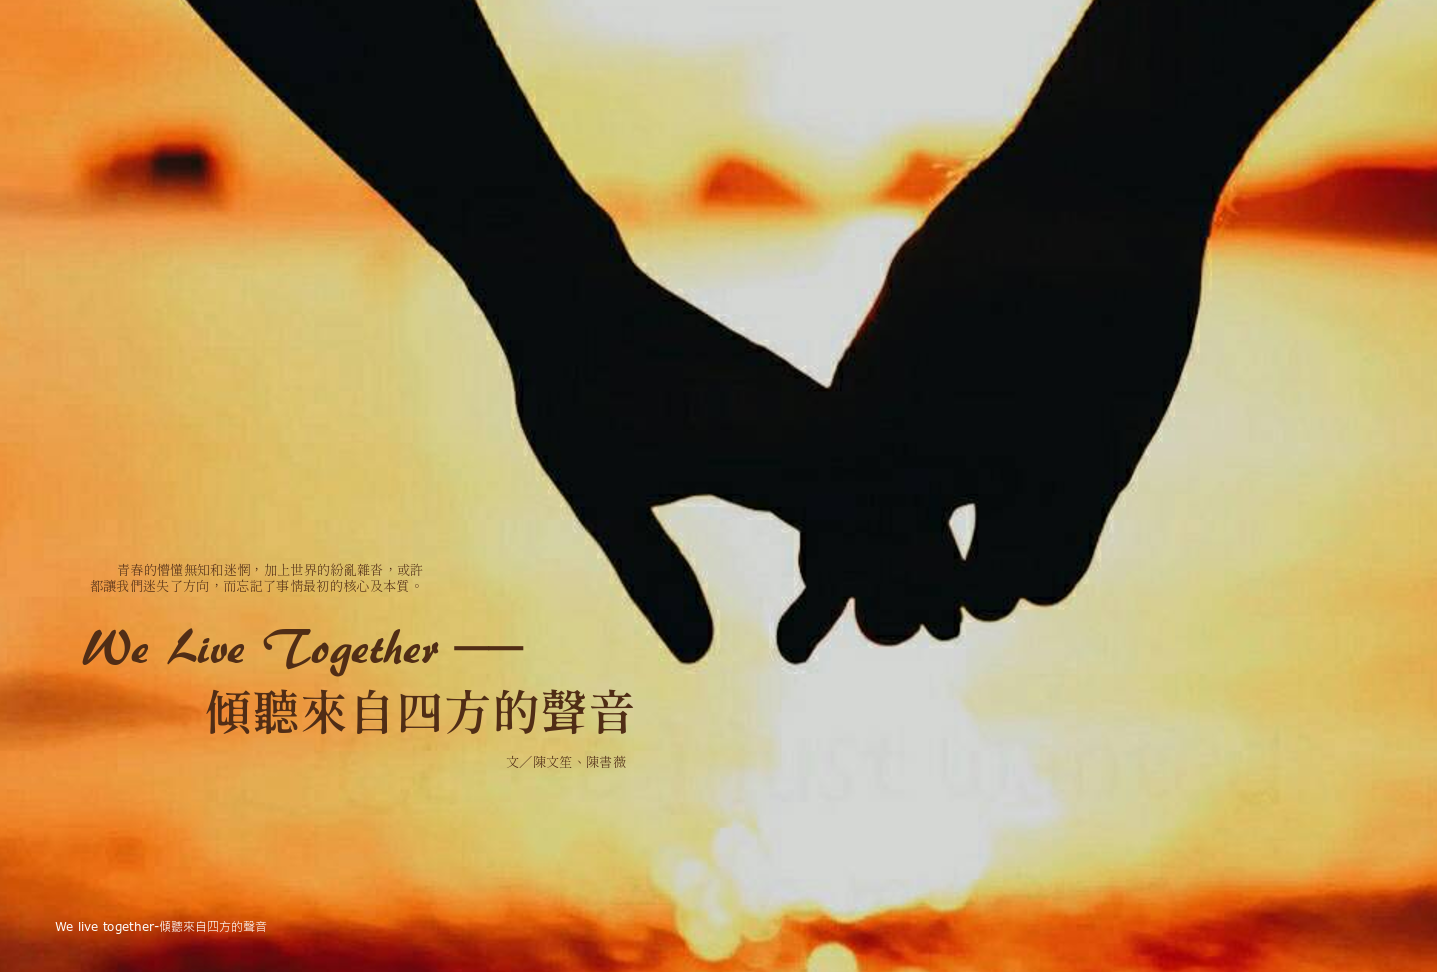
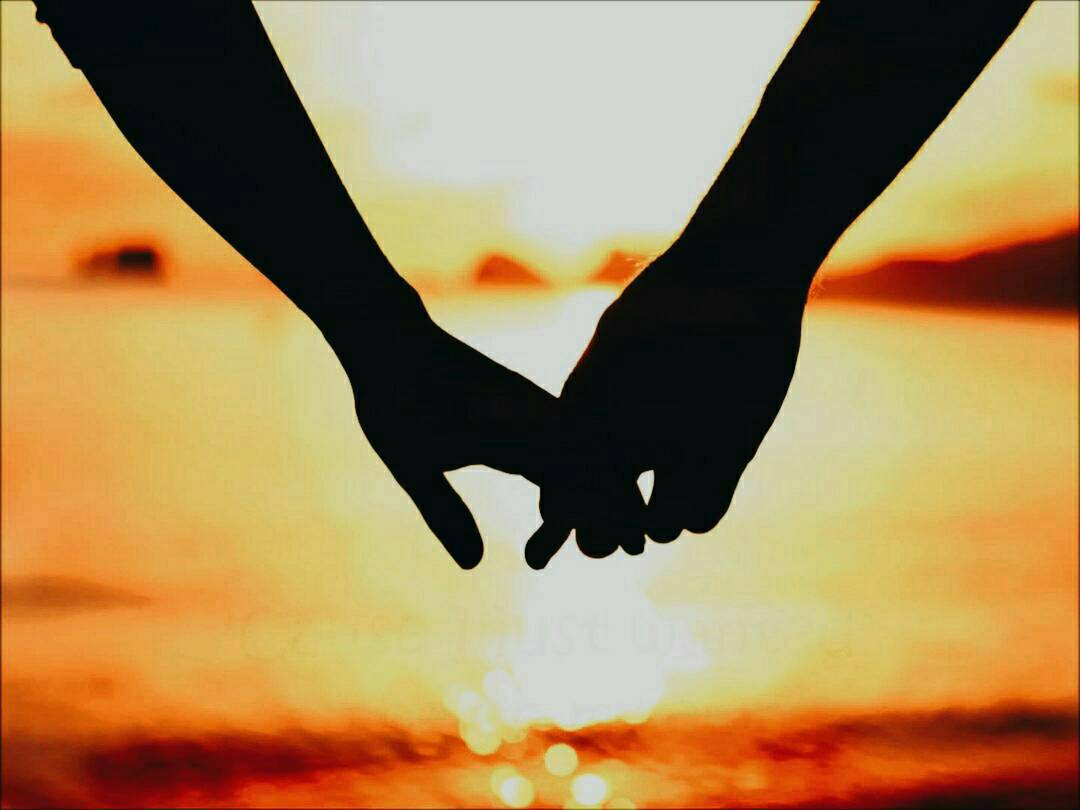
change images

diff --git a/ch10.html b/ch10.html
@@ -61,7 +61,7 @@
 									<p>學長姐：「學弟妹沒經驗，必須虛心學習，也因為你們對社團是從零開始，所以不能無所拘束，一些尊重、規範也不可少。」
 								    </p>
 								</header>
-								<div class="image main"><img src="images/pic01.jpg" alt="" /></div>
+								<div class="image main"><img src="images/ch10.JPG" alt="" /></div>
 								<div>	
  									<p>&nbsp;&nbsp;&nbsp;&nbsp;&nbsp;&nbsp;&nbsp;&nbsp;假設你是一位高一學生，升上高二後，不免發現高中社團在經營與管理上有些固定的制度，在成員彼此磨合的過程中，可能有些爭議和想法，又跟高一時的自己不盡相同。其中，學長姐制似乎已經成為部分高中社團文化當中一層深厚的結構。而這不只在高中社團，甚至在職場上也存在已久。</p>
  									<p>&nbsp;&nbsp;&nbsp;&nbsp;&nbsp;&nbsp;&nbsp;&nbsp;每年在「告白松山高中」、「黑特八校」等高中社群平台上總有許多這類的爭論。去年暑假，告松上出現了幾篇社團幹部抱怨的文章，指責有高一成員在社團群組內發言過於隨便，踰越了相處之間應有的分寸。但另一方面也有人質疑：為何只因為身份是學弟妹對學長姐就必須被指責「說話語氣太隨便」？</p>

diff --git a/page2.html b/page2.html
@@ -83,7 +83,7 @@
 										<h2><a href="#">淺談學長姐制—高中社團思考歷程<br />
 										──我們曾有過的疑惑與不解，解析社團中每段青春熱血的我們</a></h2>
 									</header>
-									<a href="#" class="image fit"><img src="images/pic02.jpg" alt="" /></a>
+									<a href="#" class="image fit"><img src="images/ch10.JPG" alt="" /></a>
 									<p>學長姐：「學弟妹沒經驗，必須虛心學習，也因為你們對社團是從零開始，所以不能無所拘束，一些尊重、規範也不可少。」</p>
 									<ul class="actions">
 										<li><a href="ch10.html" class="button">內容試閱</a></li>
